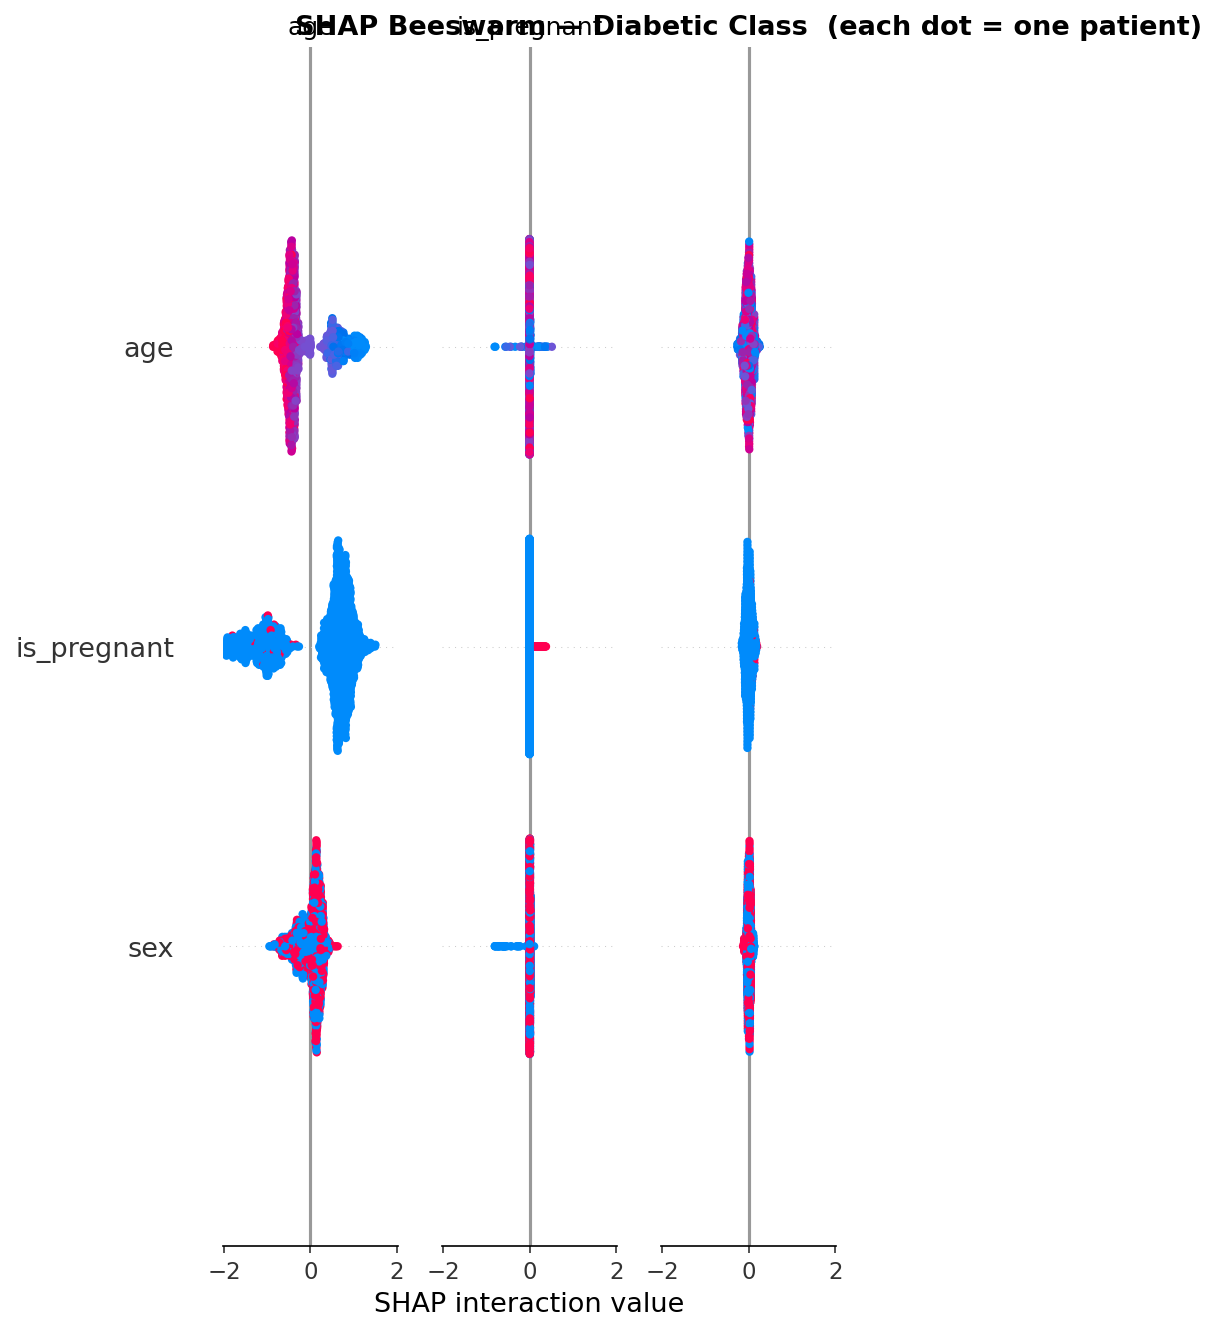
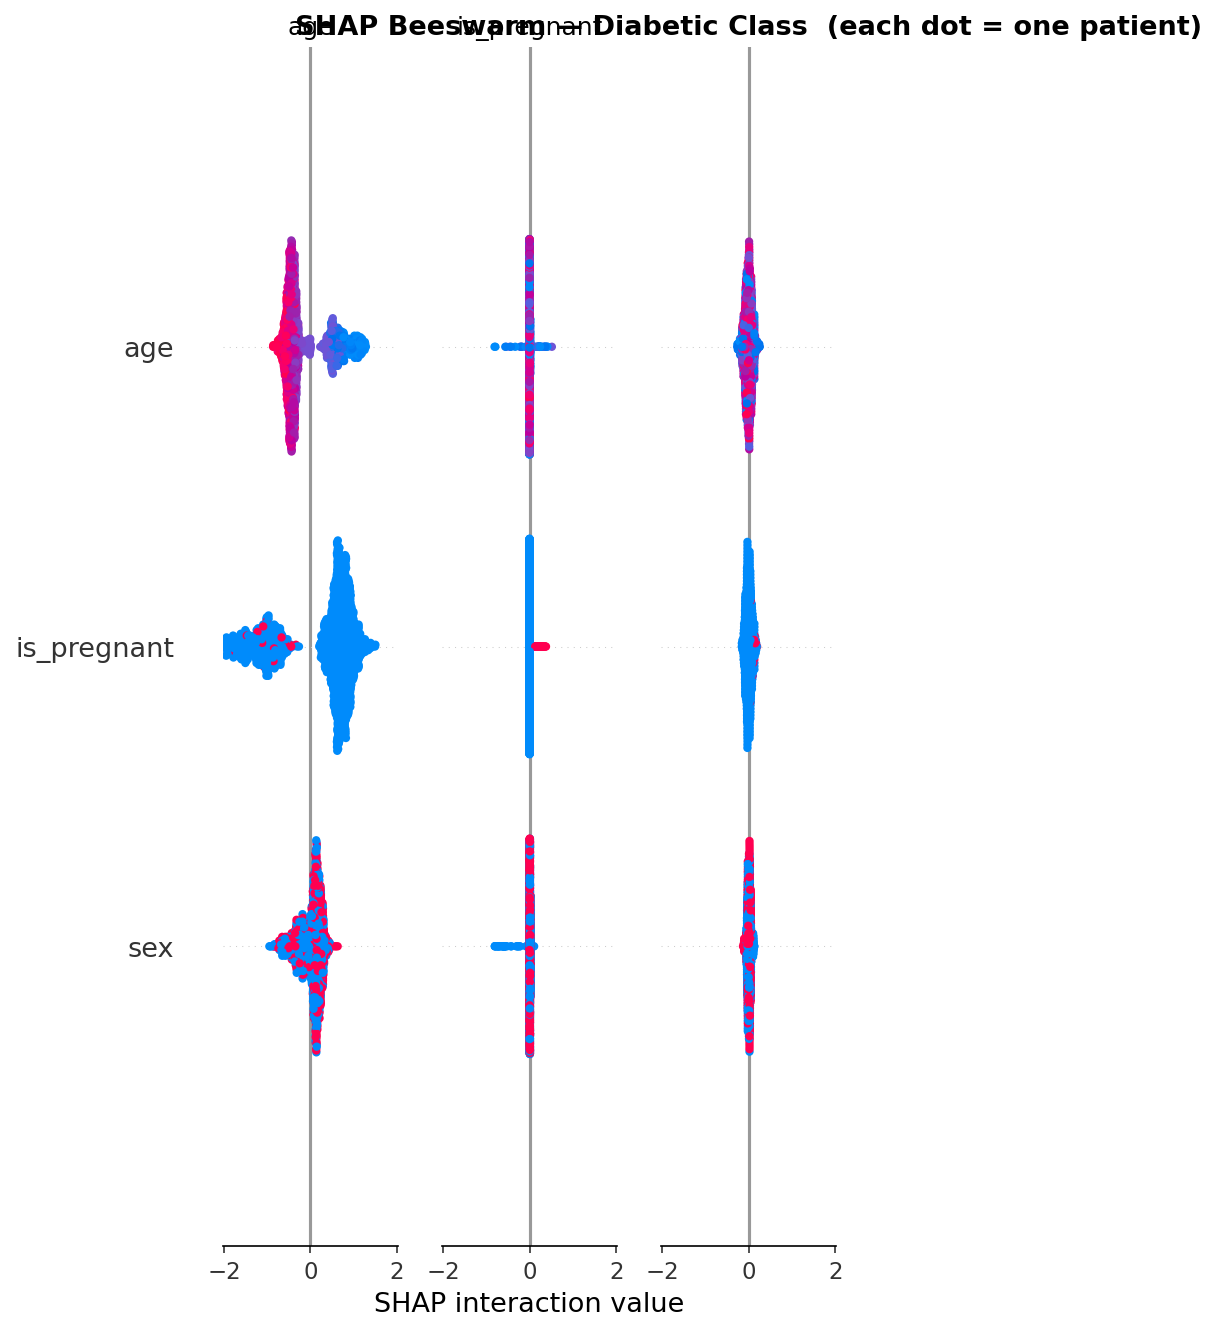
feature importance impl

diff --git a/model/diabobesity-prediction/src/diabobesity_prediction/pipelines/evaluation/nodes.py b/model/diabobesity-prediction/src/diabobesity_prediction/pipelines/evaluation/nodes.py
@@ -1,6 +1,5 @@
 from __future__ import annotations
 
-import io
 import logging
 from typing import Any
 
@@ -12,6 +11,7 @@ import matplotlib.pyplot as plt
 import numpy as np
 import pandas as pd
 import shap
+from lime import lime_tabular
 from sklearn.metrics import (
     ConfusionMatrixDisplay,
     accuracy_score,
@@ -432,6 +432,184 @@ def save_shap_explainer(
 
     return explainer
 
+def compute_lime_explanation(
+    trained_model: Any,
+    X_train: pd.DataFrame,
+    X_test: pd.DataFrame,
+    model_metadata: dict[str, Any],
+) -> str:
+    """
+    Generate a LIME explanation for one representative test patient and
+    return it as a file path.
+
+    WHY LIME alongside SHAP?
+    ------------------------
+    SHAP and LIME provide complementary perspectives on model behaviour.
+    SHAP values are theoretically grounded (Shapley values) and globally
+    consistent — all SHAP values sum to the prediction.
+    LIME fits a local linear model around one data point, which is simpler
+    to communicate to non-technical stakeholders and provides a second
+    independent verification of which features matter.
+
+    Including both in the evaluation report strengthens the explainability
+    argument in the project documentation and satisfies the architecture
+    diagram requirement.
+
+    The patient explained here is the first test patient whose true label
+    is Diabetic — chosen because that is the most clinically relevant case.
+    """
+
+    feature_names = model_metadata.get("feature_names", X_train.columns.tolist())
+
+    explainer = lime_tabular.LimeTabularExplainer(
+        training_data = X_train.values,
+        feature_names = feature_names,
+        class_names   = ["Normal", "Prediabetes", "Diabetic"],
+        mode          = "classification",
+        random_state  = 42,
+    )
+
+    # Pick first Diabetic patient from the test set for the explanation
+    y_pred = trained_model.predict(X_test)
+    diabetic_indices = [i for i, p in enumerate(y_pred) if p == 2]
+    patient_idx = diabetic_indices[0] if diabetic_indices else 0
+
+    lime_exp = explainer.explain_instance(
+        data_row   = X_test.values[patient_idx],
+        predict_fn = trained_model.predict_proba,
+        num_features = min(10, len(feature_names)),
+        num_samples  = 1000,
+        labels       = (2,),   # Explain the Diabetic class
+    )
+
+    fig = lime_exp.as_pyplot_figure(label=2)
+    fig.set_size_inches(12, 7)
+    fig.suptitle(
+        f"LIME Explanation — Test Patient {patient_idx}  (Predicted: Diabetic)",
+        fontsize=13, fontweight="bold",
+    )
+    plt.tight_layout()
+
+    output_path = "data/08_reporting/lime_explanation.png"
+
+    plt.savefig(
+        output_path,
+        dpi=150,
+        bbox_inches="tight"
+    )
+
+    plt.close(fig)
+
+    log.info(
+        "LIME explanation generated for patient %d and saved to %s",
+        patient_idx,
+        output_path,
+    )
+
+    return output_path
+
+
+
+def plot_feature_importance(
+    trained_model: Any,
+    model_metadata: dict[str, Any],
+) -> str:
+    """
+    Plot the model's native feature importances as a horizontal bar chart.
+
+    WHY native feature importance alongside SHAP?
+    ---------------------------------------------
+    SHAP global importance (mean |SHAP|) accounts for feature interactions
+    and is the most accurate measure of a feature's contribution.
+    Native importance (e.g. CatBoost's gain-based importance) is computed
+    differently — it measures how often a feature is used in splits and
+    by how much it reduces impurity.
+
+    Comparing SHAP importance with native importance:
+    - Agreement between methods = strong evidence a feature truly matters
+    - Disagreement = worth investigating (possible interaction effects
+      or scale sensitivity)
+
+    Including both satisfies the architecture diagram's explainability
+    layer requirement and provides a richer evidence base for the report.
+    """
+    feature_names = model_metadata.get("feature_names", [])
+
+    # Extract importances
+    if hasattr(trained_model, "get_feature_importance"):
+        # CatBoost
+        importances = trained_model.get_feature_importance()
+    elif hasattr(trained_model, "feature_importances_"):
+        importances = trained_model.feature_importances_
+    else:
+        log.warning("Model has no native feature importance — skipping plot.")
+        fig, ax = plt.subplots(figsize=(10, 5))
+        ax.text(0.5, 0.5, "Feature importance not available for this model type.",
+                ha="center", va="center", fontsize=12)
+
+        output_path = "data/08_reporting/feature_importance.png"
+        plt.savefig(
+            output_path,
+            dpi=150,
+            bbox_inches="tight"
+        )
+
+        plt.close(fig)
+
+        log.info(
+            "Feature importance placeholder saved to %s",
+            output_path,
+        )
+
+        return output_path
+
+    # Sort by importance descending
+    importance_df = (
+        pd.DataFrame({"feature": feature_names, "importance": importances})
+        .sort_values("importance", ascending=True)   # ascending for horizontal bar
+    )
+
+    fig, ax = plt.subplots(figsize=(11, 7))
+    colors = ["#2E75B6" if v >= importance_df["importance"].median()
+              else "#AEC6CF"
+              for v in importance_df["importance"]]
+
+    ax.barh(importance_df["feature"], importance_df["importance"],
+            color=colors, edgecolor="black")
+    ax.set_xlabel("Feature Importance (Model-Native)", fontsize=12)
+    ax.set_title(
+        f"Feature Importance — {model_metadata.get('model_name', 'Model')} (Native)",
+        fontsize=13, fontweight="bold",
+    )
+    ax.axvline(
+        x=importance_df["importance"].mean(),
+        color="red", linestyle="--", lw=1.5,
+        label=f"Mean = {importance_df['importance'].mean():.4f}",
+    )
+    ax.legend(fontsize=10)
+
+    for bar, val in zip(ax.patches, importance_df["importance"]):
+        ax.text(val + 0.001, bar.get_y() + bar.get_height() / 2,
+                f"{val:.4f}", va="center", fontsize=9)
+
+    plt.tight_layout()
+
+    output_path = "data/08_reporting/feature_importance.png"
+
+    plt.savefig(
+        output_path,
+        dpi=150,
+        bbox_inches="tight"
+    )
+
+    plt.close(fig)
+
+    log.info(
+        "Feature importance plot saved to %s",
+        output_path,
+    )
+
+    return output_path
 
 
 def build_evaluation_report(

diff --git a/model/diabobesity-prediction/src/diabobesity_prediction/pipelines/data_processing/pipeline.py b/model/diabobesity-prediction/src/diabobesity_prediction/pipelines/data_processing/pipeline.py
@@ -21,58 +21,118 @@ def create_data_processing_pipeline(**kwargs) -> Pipeline:
     return Pipeline(
         [
             node(
-                func = load_and_inspect,
-                inputs = ["diabetes_train_raw", "diabetes_test_raw"],
-                outputs = ["diabetes_train_inspected", "diabetes_test_inspected"],
-                name = "load_and_inspect_node"
+                func   = load_and_inspect,
+                inputs = [
+                    "diabetes_train_raw",
+                    "diabetes_test_raw"
+                ],
+                outputs = [
+                    "diabetes_train_inspected", 
+                    "diabetes_test_inspected"
+                ],
+                name    = "load_and_inspect_node"
             ),
             node(
-                func = select_columns,
-                inputs = ["diabetes_train_inspected", "diabetes_test_inspected", "params:data_processing.columns_to_keep"],
-                outputs = ["diabetes_train_selected", "diabetes_test_selected"],
-                name = "select_columns_node"
+                func   = select_columns,
+                inputs = [
+                    "diabetes_train_inspected", 
+                    "diabetes_test_inspected", 
+                    "params:data_processing.columns_to_keep"
+                ],
+                outputs = [
+                    "diabetes_train_selected", 
+                    "diabetes_test_selected"
+                ],
+                name    = "select_columns_node"
             ),
             node(
-                func = encode_target,
-                inputs = ["diabetes_train_selected", "diabetes_test_selected", "params:data_processing.target_map"],
-                outputs = ["diabetes_train_target_encoded", "diabetes_test_target_encoded"],
-                name = "encode_target_node"
+                func    = encode_target,
+                inputs  = [
+                    "diabetes_train_selected", 
+                    "diabetes_test_selected", 
+                    "params:data_processing.target_map"
+                ],
+                outputs = [
+                    "diabetes_train_target_encoded", 
+                    "diabetes_test_target_encoded"
+                ],
+                name    = "encode_target_node"
             ),
             node(
-                func = encode_booleans,
-                inputs = ["diabetes_train_target_encoded", "diabetes_test_target_encoded", "params:data_processing.boolean_columns"],
-                outputs = ["diabetes_train_booleans_encoded", "diabetes_test_booleans_encoded"],
-                name = "encode_booleans_node"
+                func    = encode_booleans,
+                inputs  = [
+                    "diabetes_train_target_encoded", 
+                    "diabetes_test_target_encoded", 
+                    "params:data_processing.boolean_columns"
+                ],
+                outputs = [
+                    "diabetes_train_booleans_encoded", 
+                    "diabetes_test_booleans_encoded"
+                ],
+                name    = "encode_booleans_node"
             ),
             node(
-                func = encode_bmi_category,
-                inputs = ["diabetes_train_booleans_encoded", "diabetes_test_booleans_encoded", "params:data_processing.bmi_map"],
-                outputs = ["diabetes_train_bmi_encoded", "diabetes_test_bmi_encoded"],
-                name = "encode_bmi_category_node"
+                func    = encode_bmi_category,
+                inputs  = [
+                    "diabetes_train_booleans_encoded", 
+                    "diabetes_test_booleans_encoded", 
+                    "params:data_processing.bmi_map"
+                ],
+                outputs = [
+                    "diabetes_train_bmi_encoded", 
+                    "diabetes_test_bmi_encoded"
+                ],
+                name    = "encode_bmi_category_node"
             ),
             node(
-                func = encode_sex,
-                inputs = ["diabetes_train_bmi_encoded", "diabetes_test_bmi_encoded", "params:data_processing.sex_map"],
-                outputs = ["diabetes_train_sex_encoded", "diabetes_test_sex_encoded"],
-                name = "encode_sex_node"
+                func    = encode_sex,
+                inputs  = [
+                    "diabetes_train_bmi_encoded", 
+                    "diabetes_test_bmi_encoded", 
+                    "params:data_processing.sex_map"
+                ],
+                outputs = [
+                    "diabetes_train_sex_encoded", 
+                    "diabetes_test_sex_encoded"
+                ],
+                name    = "encode_sex_node"
             ),
             node(
-                func = encode_residence,
-                inputs = ["diabetes_train_sex_encoded", "diabetes_test_sex_encoded", "params:data_processing.residence_map"],
-                outputs = ["diabetes_train_residence_encoded", "diabetes_test_residence_encoded"],
-                name = "encode_residence_node"
+                func    = encode_residence,
+                inputs  = [
+                    "diabetes_train_sex_encoded", 
+                    "diabetes_test_sex_encoded", 
+                    "params:data_processing.residence_map"
+                ],
+                outputs = [
+                    "diabetes_train_residence_encoded", 
+                    "diabetes_test_residence_encoded"
+                ],
+                name    = "encode_residence_node"
             ),
             node(
-                func = convert_age,
-                inputs = ["diabetes_train_residence_encoded", "diabetes_test_residence_encoded"],
-                outputs = ["diabetes_train_age_converted", "diabetes_test_age_converted"],
-                name = "convert_age_node"
+                func    = convert_age,
+                inputs  = [
+                    "diabetes_train_residence_encoded", 
+                    "diabetes_test_residence_encoded"
+                ],
+                outputs = [
+                    "diabetes_train_age_converted", 
+                    "diabetes_test_age_converted"
+                ],
+                name    = "convert_age_node"
             ),
             node(
-                func = final_quality_check,
-                inputs = ["diabetes_train_age_converted", "diabetes_test_age_converted"],
-                outputs = ["diabetes_train_cleaned", "diabetes_test_cleaned"],
-                name = "final_quality_check_node"
+                func    = final_quality_check,
+                inputs  = [
+                    "diabetes_train_age_converted", 
+                    "diabetes_test_age_converted"
+                ],
+                outputs = [
+                    "diabetes_train_cleaned", 
+                    "diabetes_test_cleaned"
+                ],
+                name    = "final_quality_check_node"
             ),
         ]
     )

diff --git a/model/diabobesity-prediction/src/diabobesity_prediction/pipelines/evaluation/pipeline.py b/model/diabobesity-prediction/src/diabobesity_prediction/pipelines/evaluation/pipeline.py
@@ -2,9 +2,11 @@ from kedro.pipeline import Pipeline, node
 
 from .nodes import (
     build_evaluation_report,
+    compute_lime_explanation,
     compute_shap_values,
     compute_test_metrics,
     plot_confusion_matrix,
+    plot_feature_importance,
     plot_roc_curves,
     save_shap_explainer,
 )
@@ -68,6 +70,27 @@ def create_evaluation_pipeline(**kwargs) -> Pipeline:
                 ],
                 outputs = "shap_explainer",
                 name    = "save_shap_explainer_node",
+            ),
+            node(
+                func=compute_lime_explanation,
+                inputs=[
+                    "trained_model",
+                    "X_train",
+                    "X_test",
+                    "model_metadata",
+                ],
+                outputs="lime_explanation_png",
+                name="compute_lime_explanation_node",
+            ),
+
+            node(
+                func=plot_feature_importance,
+                inputs=[
+                    "trained_model",
+                    "model_metadata",
+                ],
+                outputs="feature_importance_png",
+                name="plot_feature_importance_node",
             ),
             node(
                 func    = build_evaluation_report,